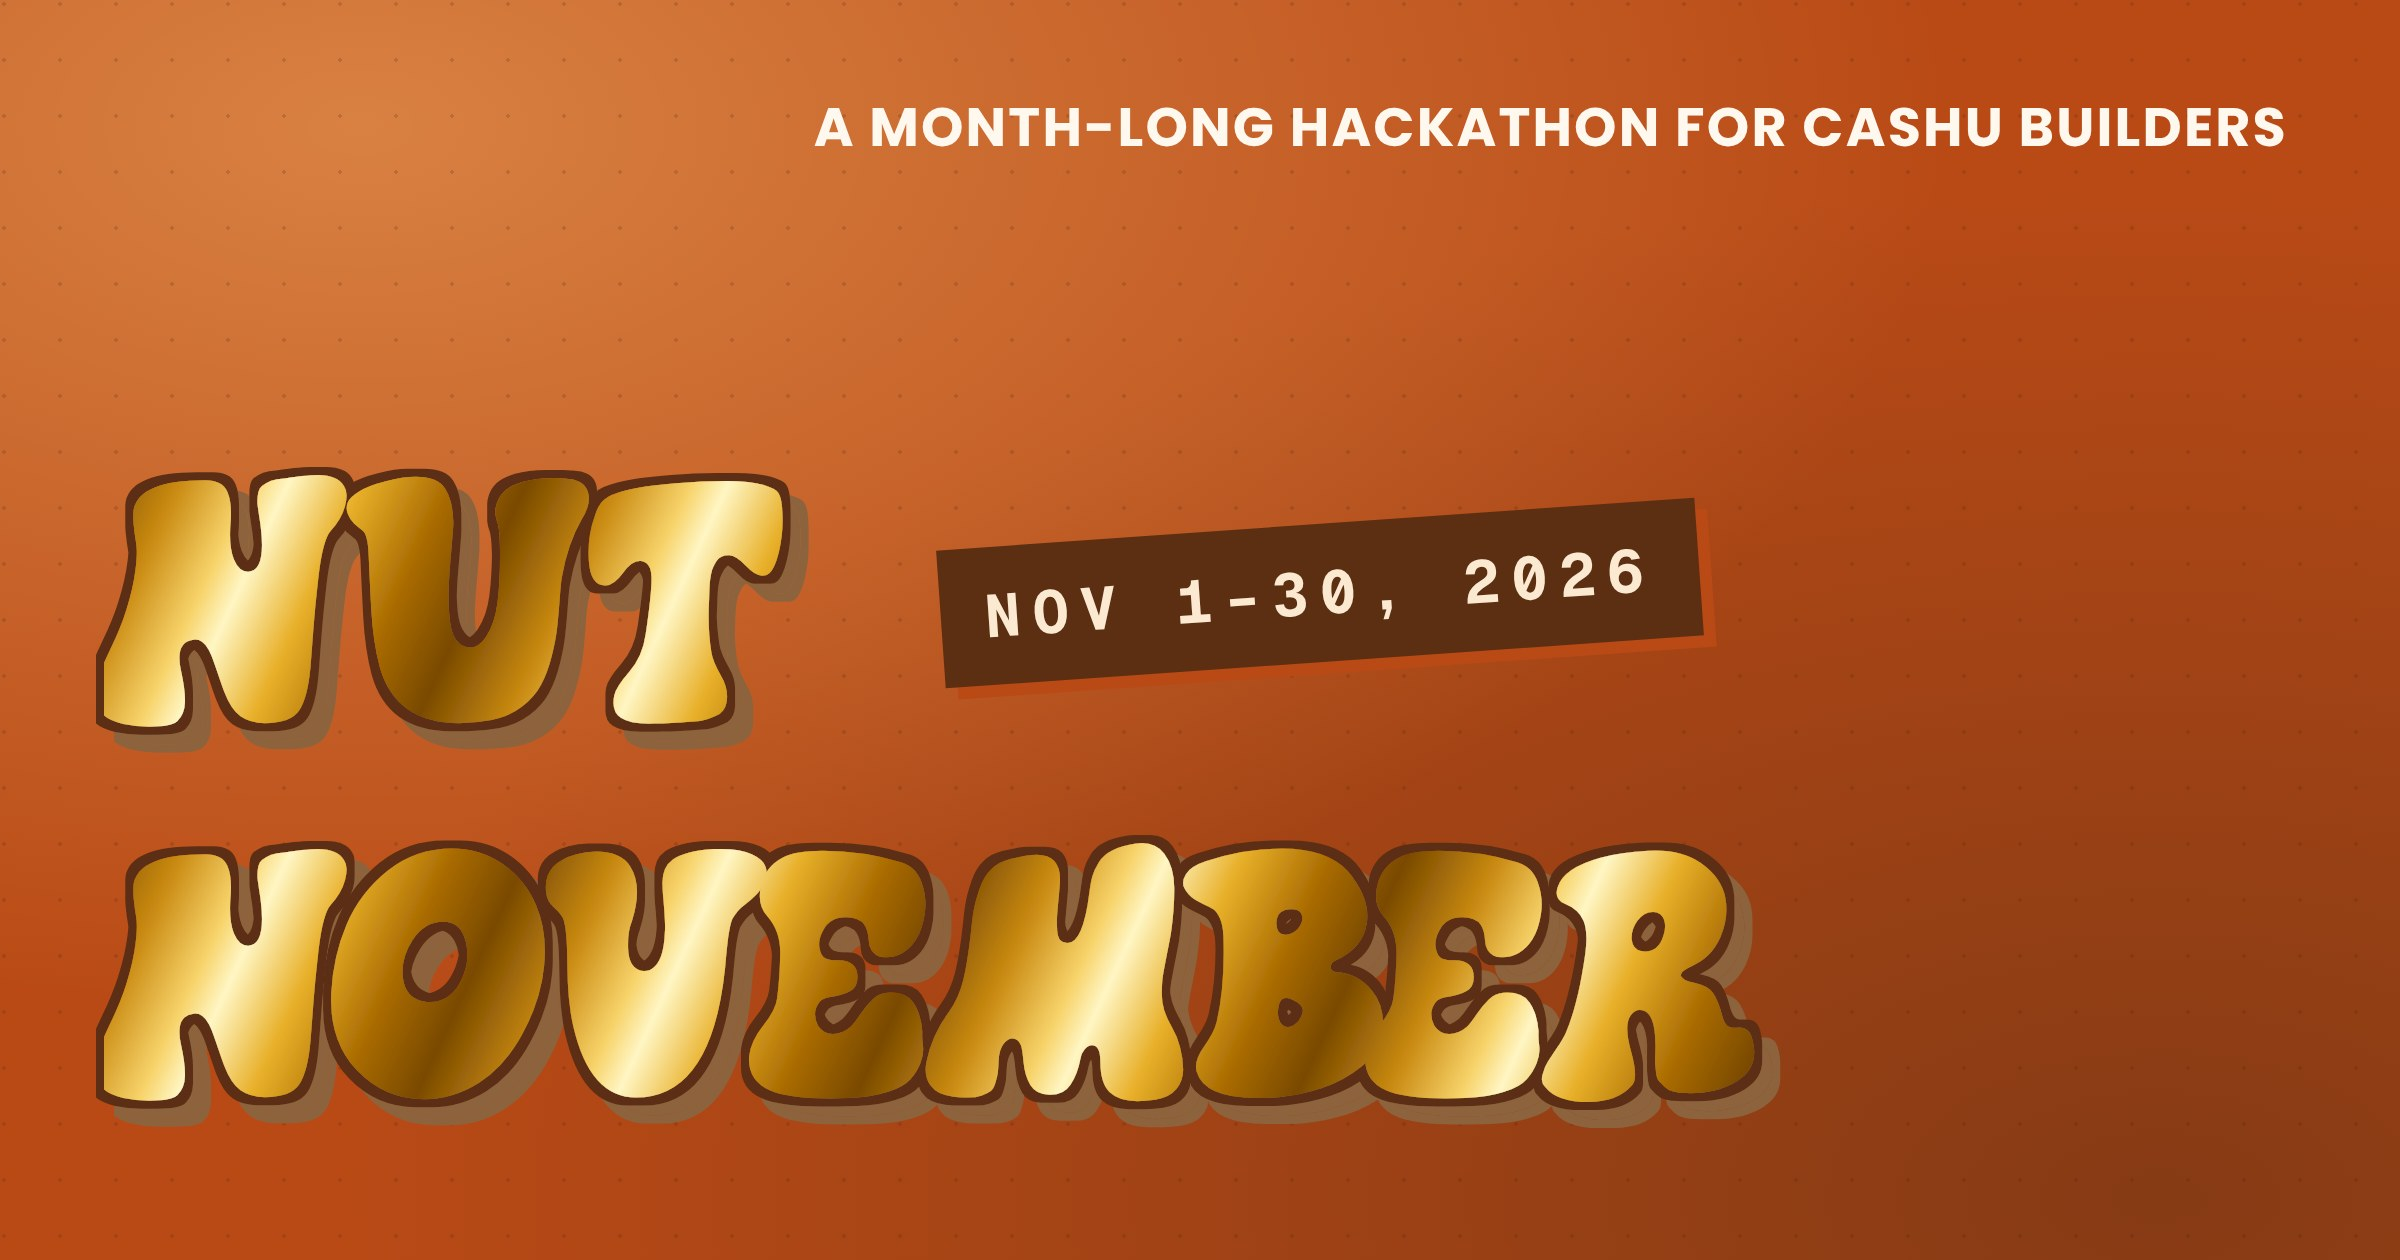
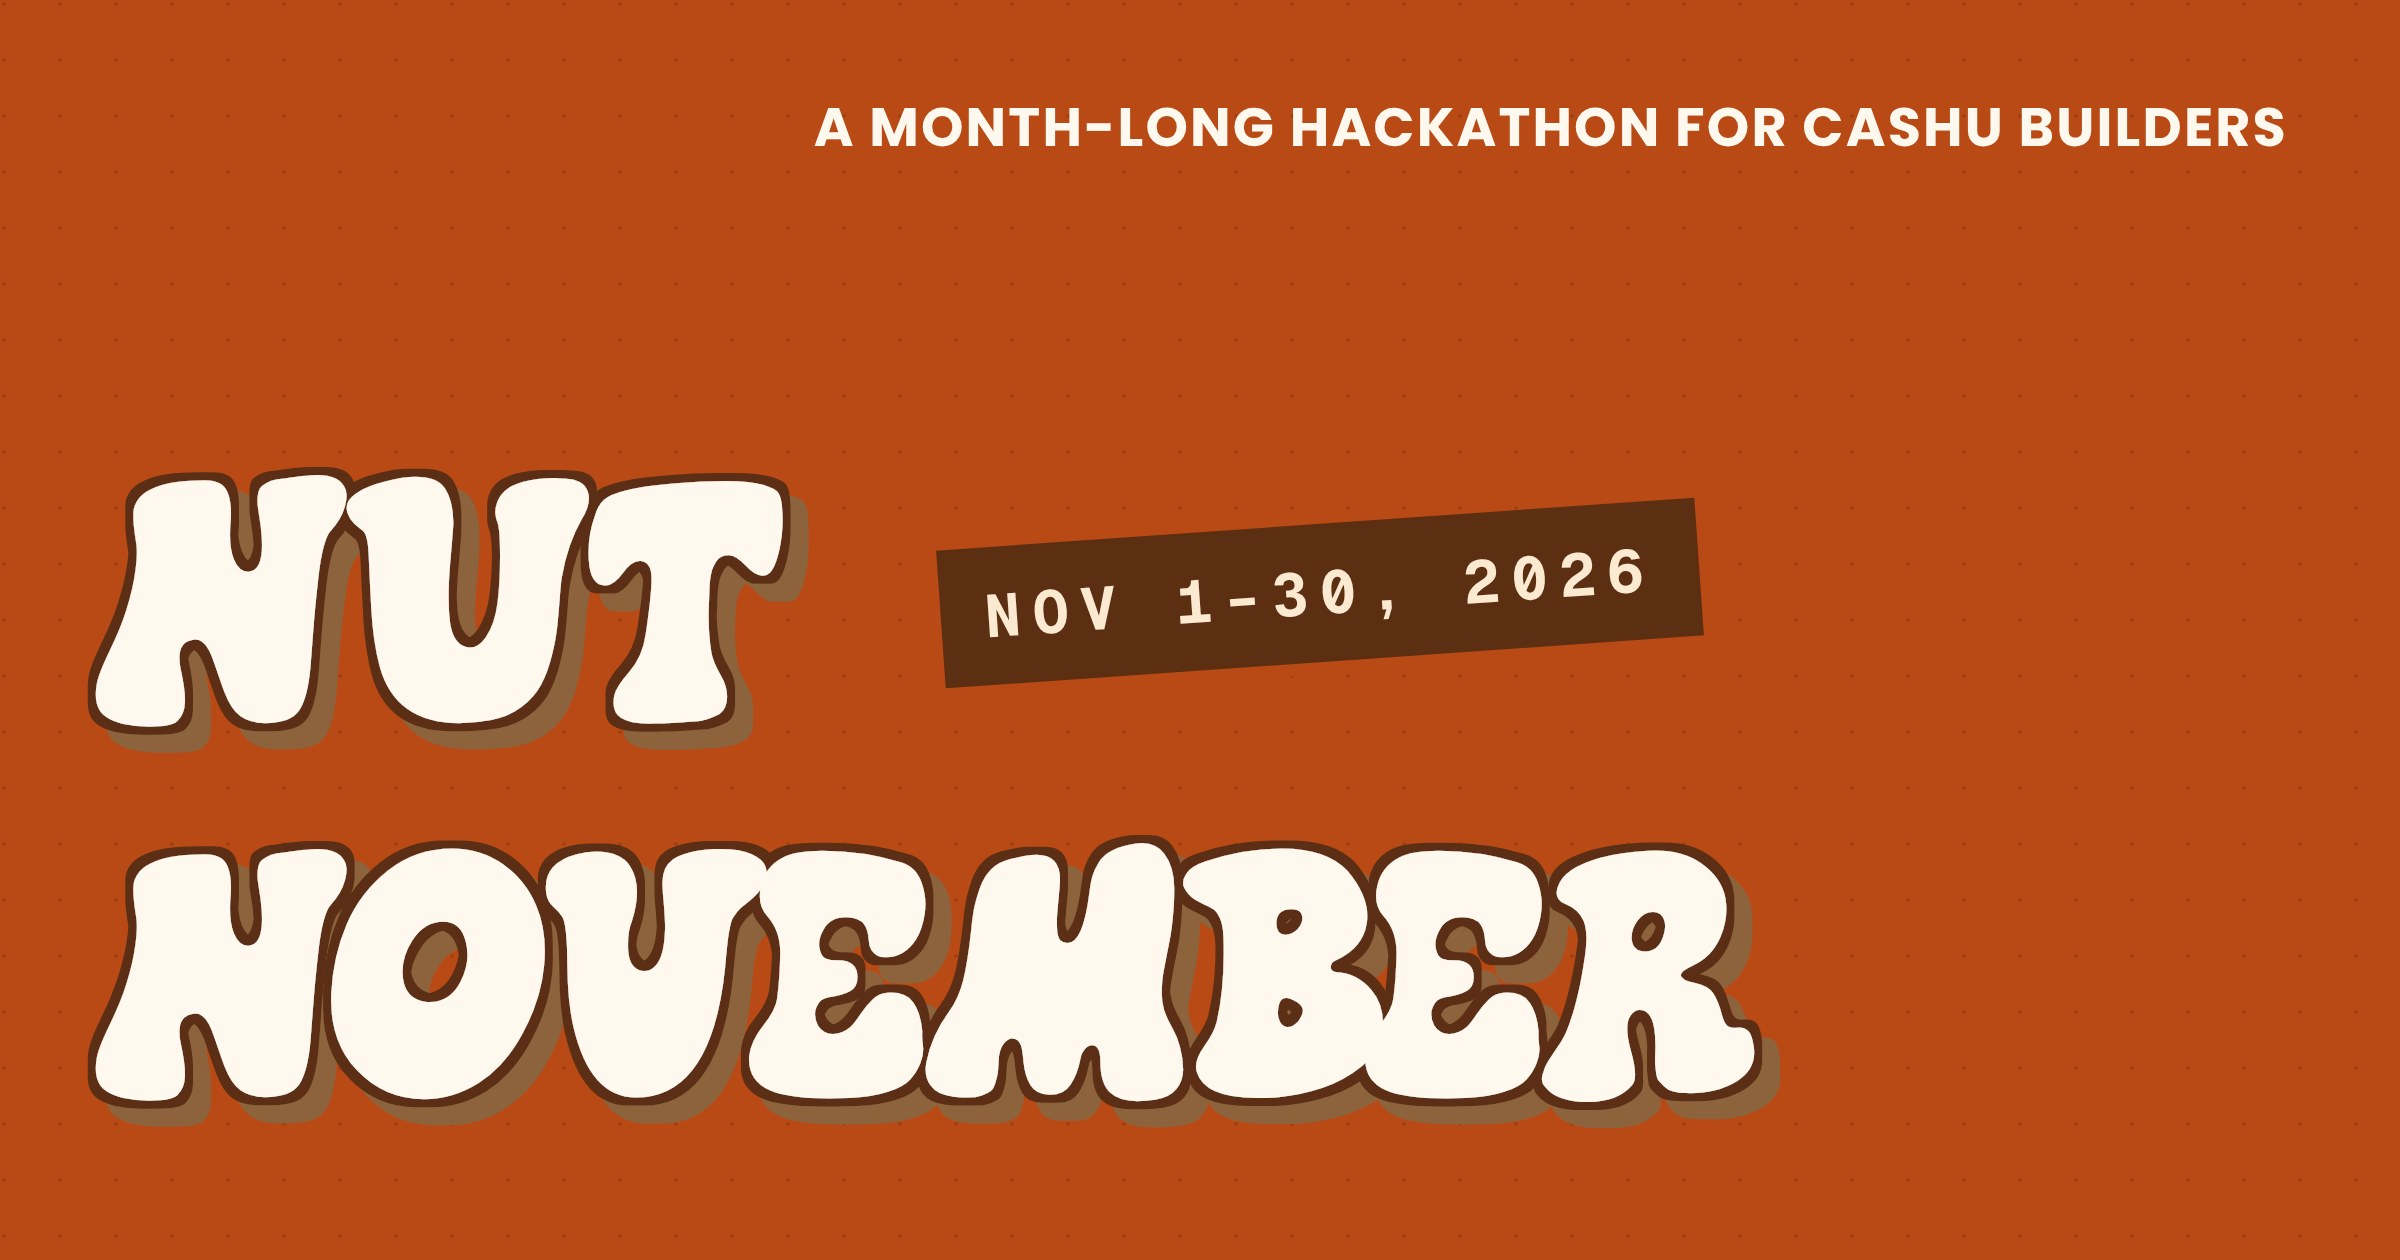
Flat OG image; smoother pointer effects in Safari
Open Graph: drop both gradients (background glow and gold foil
wordmark). Flat dotted pumpkin with a cream wordmark, bark outline and
hard shadow.

Pointer effects were smooth in Chrome but stuttered in Safari:
- Card tilt and the hero foil's shine are written straight to the DOM
  at most once per frame instead of via React state on every mousemove
- The cards' hard shadow is now a bark copy of the silhouette offset
  behind, instead of filter: drop-shadow on the tilting element, which
  Safari re-rasterises every frame
- The merged-outline SVG filter layers get their own compositing layer
  so Safari can cache them while the foil animates

Claude-Session: https://claude.ai/code/session_01E3ZhZKrVjafMaH3hvBiT9f

diff --git a/src/app/components/prize-card/PrizeCard.tsx b/src/app/components/prize-card/PrizeCard.tsx
@@ -51,7 +51,10 @@ export default function PrizeCard({
   const outlineId = `word-outline-${useId().replace(/[^\w-]/g, "")}`;
   const [size, setSize] = useState({ w: 0, h: 0 });
   const [corner, setCorner] = useState<Point | null>(null);
-  const [tilt, setTilt] = useState({ x: 0, y: 0, active: false });
+  // Tilt is written straight to the DOM once per frame: re-rendering React on
+  // every mouse move made Safari stutter.
+  const cardRef = useRef<HTMLDivElement>(null);
+  const tiltFrame = useRef<number | null>(null);
   const [visible, setVisible] = useState(false);
 
   const cornerRef = useRef<Point | null>(null);
@@ -63,7 +66,6 @@ export default function PrizeCard({
   } | null>(null);
   const anim = useRef<number | null>(null);
   const hold = useRef<number | null>(null);
-  const [peeling, setPeeling] = useState(false);
 
   const rest = useCallback(
     (w: number): Point => ({ x: w - w * 0.075, y: w * 0.075 }),
@@ -107,6 +109,23 @@ export default function PrizeCard({
     },
     []
   );
+
+  const applyTilt = (x: number, y: number, transition: string) => {
+    const card = cardRef.current;
+    const scene = sceneRef.current;
+    if (!card || !scene) return;
+    card.style.transition = transition;
+    card.style.transform = `rotateX(${x}deg) rotateY(${y}deg)`;
+    scene.style.setProperty("--mx", `${50 + y * 3}%`);
+    scene.style.setProperty("--my", `${50 - x * 3}%`);
+    scene.style.setProperty("--hx", `${y * 1.5}%`);
+    scene.style.setProperty("--hy", `${-x * 1.5}%`);
+  };
+
+  const cancelTiltFrame = () => {
+    if (tiltFrame.current !== null) cancelAnimationFrame(tiltFrame.current);
+    tiltFrame.current = null;
+  };
 
   const local = (e: ReactPointerEvent): Point => {
     const r = sceneRef.current!.getBoundingClientRect();
@@ -175,7 +194,8 @@ export default function PrizeCard({
     e.preventDefault();
     stopAnim();
     e.currentTarget.setPointerCapture(e.pointerId);
-    setTilt({ x: 0, y: 0, active: false });
+    cancelTiltFrame();
+    applyTilt(0, 0, "none");
     const p = local(e);
     const c = cornerRef.current ?? rest(size.w);
     drag.current = {
@@ -184,7 +204,6 @@ export default function PrizeCard({
       travelled: 0,
       voice: startPeel(),
     };
-    setPeeling(true);
   };
 
   const onHandleMove = (e: ReactPointerEvent<HTMLButtonElement>) => {
@@ -202,7 +221,7 @@ export default function PrizeCard({
     const d = drag.current;
     if (!d) return;
     drag.current = null;
-    setPeeling(false);
+    applyTilt(0, 0, "transform 600ms cubic-bezier(.2,.8,.2,1)");
     d.voice?.stop();
     if (d.travelled < 4) autoPeel();
     else springBack();
@@ -213,7 +232,16 @@ export default function PrizeCard({
     const r = e.currentTarget.getBoundingClientRect();
     const nx = (e.clientX - r.left) / r.width - 0.5;
     const ny = (e.clientY - r.top) / r.height - 0.5;
-    setTilt({ x: -ny * 2 * MAX_TILT, y: nx * 2 * MAX_TILT, active: true });
+    cancelTiltFrame();
+    tiltFrame.current = requestAnimationFrame(() => {
+      tiltFrame.current = null;
+      applyTilt(-ny * 2 * MAX_TILT, nx * 2 * MAX_TILT, "transform 120ms cubic-bezier(.2,.8,.2,1)");
+    });
+  };
+
+  const onSceneLeave = () => {
+    cancelTiltFrame();
+    if (!drag.current) applyTilt(0, 0, "transform 600ms cubic-bezier(.2,.8,.2,1)");
   };
 
   const peel = size.w && corner ? peelAt(size.w, size.h, corner) : null;
@@ -229,26 +257,18 @@ export default function PrizeCard({
       ref={sceneRef}
       className="prize-card-scene relative w-full aspect-[50/64] [perspective:1100px] select-none"
       onPointerMove={onSceneMove}
-      onPointerLeave={() => setTilt({ x: 0, y: 0, active: false })}
-      style={
-        {
-          "--mx": `${50 + tilt.y * 3}%`,
-          "--my": `${50 - tilt.x * 3}%`,
-          "--hx": `${tilt.y * 1.5}%`,
-          "--hy": `${-tilt.x * 1.5}%`,
-          containerType: "inline-size",
-        } as CSSProperties
-      }
+      onPointerLeave={onSceneLeave}
+      style={{ containerType: "inline-size" }}
     >
-      <div
-        className="prize-card relative h-full w-full"
-        style={{
-          transform: `rotateX(${tilt.x}deg) rotateY(${tilt.y}deg)`,
-          transition: peeling
-            ? "none"
-            : `transform ${tilt.active ? 120 : 600}ms cubic-bezier(.2,.8,.2,1)`,
-        }}
-      >
+      <div ref={cardRef} className="prize-card relative h-full w-full">
+        {/* Hard sticker shadow: a bark copy of the silhouette, offset behind.
+            A plain shape instead of filter: drop-shadow, which Safari redraws
+            on every frame while the card tilts. */}
+        <div
+          aria-hidden
+          className="absolute inset-0 translate-x-[8px] translate-y-[8px] bg-bark"
+          style={shapeMask}
+        />
         {/* Everything that lives inside the card silhouette */}
         <div className="absolute inset-0 overflow-hidden" style={shapeMask}>
           {/* 1. The art: a foil finish unique to each prize (see globals.css). It
@@ -302,7 +322,7 @@ export default function PrizeCard({
                 <feComposite in2="ring" operator="in" />
               </filter>
             </svg>
-            <div className="absolute inset-0" style={{ filter: `url(#${outlineId})` }}>
+            <div className="absolute inset-0 [transform:translateZ(0)]" style={{ filter: `url(#${outlineId})` }}>
               <Word text={prize.word} className="text-bark" />
             </div>
 

diff --git a/src/app/components/Hero.tsx b/src/app/components/Hero.tsx
@@ -7,7 +7,6 @@ import {
   RefObject,
   useId,
   useRef,
-  useState,
 } from "react";
 import CircularText from "./CircularText";
 import NutParticles from "./NutParticles";
@@ -33,8 +32,10 @@ export default function Hero() {
   const { total, basePool } = useDonations();
   const phase = usePhase();
   const outlineId = `hero-outline-${useId().replace(/[^\w-]/g, "")}`;
-  // Pointer position drives the foil's shine, like tilting the prize cards
-  const [light, setLight] = useState({ x: 0, y: 0 });
+  // Pointer position drives the foil's shine. Written straight to the
+  // wordmark once per frame, without re-rendering (Safari stuttered).
+  const foilRef = useRef<HTMLDivElement>(null);
+  const lightFrame = useRef<number | null>(null);
 
   const status =
     phase?.kind === "upcoming"
@@ -49,7 +50,18 @@ export default function Hero() {
   const onPointerMove = (e: ReactPointerEvent<HTMLElement>) => {
     if (e.pointerType !== "mouse") return;
     const r = e.currentTarget.getBoundingClientRect();
-    setLight({ x: (e.clientX - r.left) / r.width - 0.5, y: (e.clientY - r.top) / r.height - 0.5 });
+    const x = (e.clientX - r.left) / r.width - 0.5;
+    const y = (e.clientY - r.top) / r.height - 0.5;
+    if (lightFrame.current !== null) cancelAnimationFrame(lightFrame.current);
+    lightFrame.current = requestAnimationFrame(() => {
+      lightFrame.current = null;
+      const el = foilRef.current;
+      if (!el) return;
+      el.style.setProperty("--mx", `${50 + x * 60}%`);
+      el.style.setProperty("--my", `${40 + y * 60}%`);
+      el.style.setProperty("--hx", `${x * 6}%`);
+      el.style.setProperty("--hy", `${y * 6}%`);
+    });
   };
 
   return (
@@ -57,14 +69,6 @@ export default function Hero() {
       ref={heroRef}
       onPointerMove={onPointerMove}
       className="relative flex min-h-[92vh] items-center justify-center overflow-hidden hero-autumn px-5 pt-20 pb-16 sm:p-12 md:p-16"
-      style={
-        {
-          "--mx": `${50 + light.x * 60}%`,
-          "--my": `${40 + light.y * 60}%`,
-          "--hx": `${light.x * 6}%`,
-          "--hy": `${light.y * 6}%`,
-        } as CSSProperties
-      }
     >
       {/* The master seed packet. Its hard shadow follows the zigzag silhouette. */}
       <div className="relative z-20 w-full max-w-6xl [filter:drop-shadow(10px_10px_0_var(--bark))]">
@@ -73,7 +77,7 @@ export default function Hero() {
             {/* Foil wordmark: the letters are cut out of the packet paper
                 (same layering as the prize cards). The isolate group keeps
                 the blends inside the wordmark. */}
-            <div className="relative isolate mx-auto w-fit">
+            <div ref={foilRef} className="relative isolate mx-auto w-fit">
               <div className="prize-holo absolute inset-0" data-finish="gold" aria-hidden>
                 <span className="prize-holo-bands" />
                 <span className="prize-holo-foil" />
@@ -101,7 +105,7 @@ export default function Hero() {
               </svg>
               <div
                 aria-hidden
-                className={`absolute inset-0 text-bark ${wordmarkSize}`}
+                className={`absolute inset-0 text-bark [transform:translateZ(0)] ${wordmarkSize}`}
                 style={{ ...display, filter: `url(#${outlineId})` }}
               >
                 <Wordmark />

diff --git a/src/app/globals.css b/src/app/globals.css
@@ -324,11 +324,6 @@ a {
   to { background-position: 0 -13cqw, 5cqw -4cqw; }
 }
 
-/* The site's hard "sticker" shadow, following the packet silhouette */
-.prize-card {
-  filter: drop-shadow(8px 8px 0 var(--bark));
-}
-
 /* Packet paper with the hero's dot texture. It has to be white for screen to
    hide the art completely; .prize-paper-tint warms it to cream afterwards. */
 .prize-sticker {
